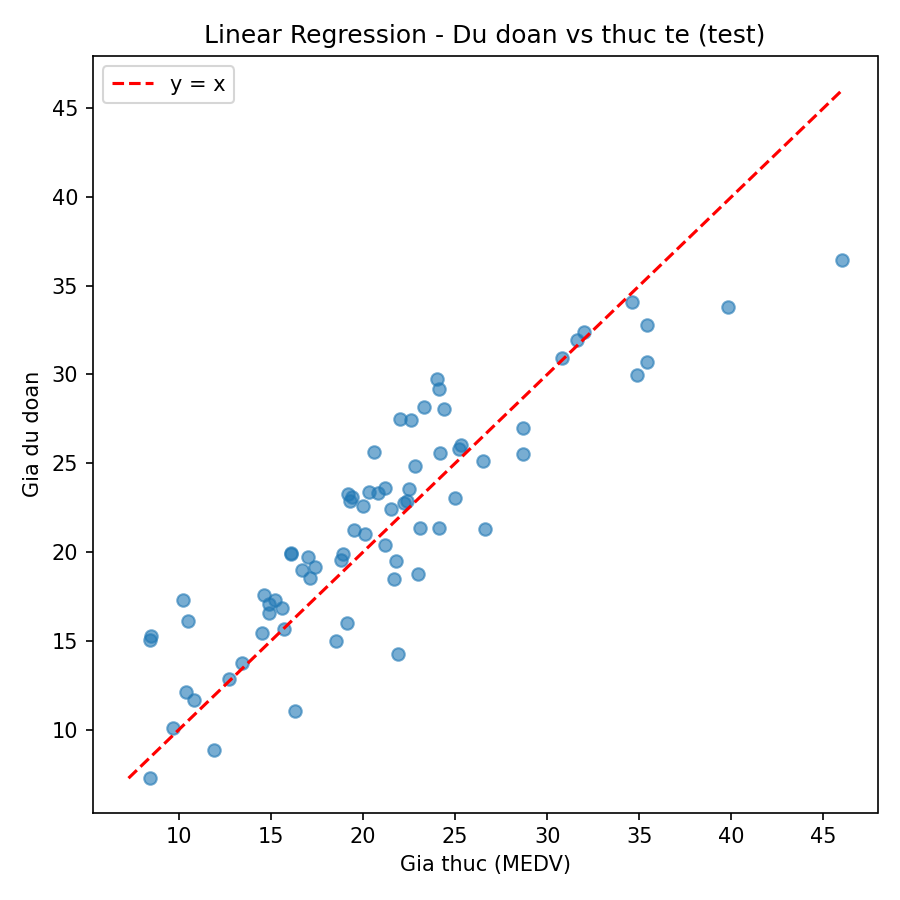
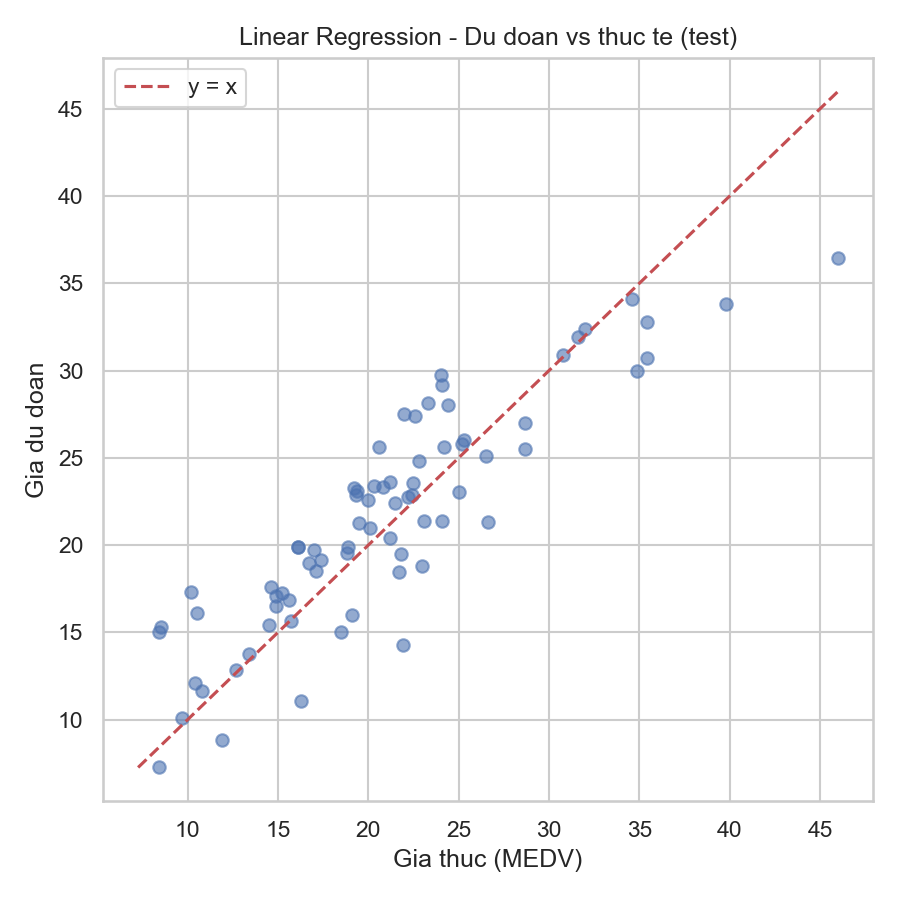
Them module visualization 6 bieu do

diff --git a/src/visualization/visualize.py b/src/visualization/visualize.py
@@ -1,0 +1,136 @@
+import sys
+from pathlib import Path
+
+import joblib
+import matplotlib
+matplotlib.use("Agg")
+import matplotlib.pyplot as plt
+import numpy as np
+import pandas as pd
+import seaborn as sns
+
+ROOT = Path(__file__).resolve().parents[2]
+sys.path.append(str(ROOT / "src"))
+
+from models.train_model import load_data
+
+DATA_PATH = ROOT / "data" / "processed" / "boston_clean.csv"
+COEF_PATH = ROOT / "reports" / "coefficients.csv"
+MODEL_PATH = ROOT / "models" / "linear_regression.joblib"
+FIG_DIR = ROOT / "reports" / "figures"
+TARGET = "MEDV"
+
+sns.set_theme(style="whitegrid")
+
+
+def plot_target_distribution(df):
+    fig, axes = plt.subplots(1, 2, figsize=(12, 4))
+    sns.histplot(df[TARGET], kde=True, ax=axes[0], color="steelblue")
+    axes[0].set_title(f"Phan phoi {TARGET}")
+    axes[0].set_xlabel("Gia nha (x1000 USD)")
+    sns.boxplot(x=df[TARGET], ax=axes[1], color="steelblue")
+    axes[1].set_title(f"Boxplot {TARGET}")
+    fig.tight_layout()
+    fig.savefig(FIG_DIR / "target_distribution.png", dpi=150)
+    plt.close(fig)
+    print(f"Da luu -> {FIG_DIR / 'target_distribution.png'}")
+
+
+def plot_correlation_heatmap(df):
+    corr = df.corr()
+    fig, ax = plt.subplots(figsize=(11, 9))
+    sns.heatmap(corr, annot=True, fmt=".2f", cmap="coolwarm", center=0, ax=ax, square=True)
+    ax.set_title("Ma tran tuong quan cac dac trung")
+    fig.tight_layout()
+    fig.savefig(FIG_DIR / "correlation_heatmap.png", dpi=150)
+    plt.close(fig)
+    print(f"Da luu -> {FIG_DIR / 'correlation_heatmap.png'}")
+
+
+def plot_feature_vs_target(df):
+    corr = df.corr()[TARGET].abs().drop(TARGET).sort_values(ascending=False)
+    top_features = corr.head(4).index.tolist()
+    fig, axes = plt.subplots(2, 2, figsize=(12, 9))
+    for ax, feature in zip(axes.flat, top_features):
+        sns.regplot(data=df, x=feature, y=TARGET, ax=ax, scatter_kws={"alpha": 0.5}, line_kws={"color": "red"})
+        ax.set_title(f"{feature} vs {TARGET} (corr={corr[feature]:.2f})")
+    fig.suptitle("4 dac trung tuong quan manh nhat voi gia nha")
+    fig.tight_layout()
+    fig.savefig(FIG_DIR / "feature_vs_target.png", dpi=150)
+    plt.close(fig)
+    print(f"Da luu -> {FIG_DIR / 'feature_vs_target.png'}")
+
+
+def plot_predictions(y_test, pred):
+    fig, ax = plt.subplots(figsize=(6, 6))
+    ax.scatter(y_test, pred, alpha=0.6)
+    lims = [min(y_test.min(), pred.min()), max(y_test.max(), pred.max())]
+    ax.plot(lims, lims, "r--", label="y = x")
+    ax.set_xlabel("Gia thuc (MEDV)")
+    ax.set_ylabel("Gia du doan")
+    ax.set_title("Linear Regression - Du doan vs thuc te (test)")
+    ax.legend()
+    fig.tight_layout()
+    fig.savefig(FIG_DIR / "predictions_vs_true.png", dpi=150)
+    plt.close(fig)
+    print(f"Da luu -> {FIG_DIR / 'predictions_vs_true.png'}")
+
+
+def plot_residuals(y_test, pred):
+    residual = y_test - pred
+    fig, axes = plt.subplots(1, 2, figsize=(12, 5))
+
+    ax = axes[0]
+    ax.scatter(pred, residual, alpha=0.6)
+    ax.axhline(0, color="red", linestyle="--")
+    ax.set_xlabel("Gia du doan")
+    ax.set_ylabel("Residual (y_true - y_pred)")
+    ax.set_title("Residual plot (test)")
+
+    ax = axes[1]
+    sns.histplot(residual, kde=True, ax=ax, color="steelblue")
+    ax.axvline(0, color="red", linestyle="--")
+    ax.set_xlabel("Residual")
+    ax.set_title("Phan phoi residual")
+
+    fig.tight_layout()
+    fig.savefig(FIG_DIR / "residuals.png", dpi=150)
+    plt.close(fig)
+    print(f"Da luu -> {FIG_DIR / 'residuals.png'}")
+
+
+def plot_coefficients():
+    coef_df = pd.read_csv(COEF_PATH)
+    coef_df = coef_df[coef_df["feature"] != "INTERCEPT"].copy()
+    coef_df = coef_df.sort_values("coefficient_scaled", key=abs)
+    fig, ax = plt.subplots(figsize=(8, 6))
+    colors = np.where(coef_df["coefficient_scaled"] >= 0, "tab:blue", "tab:red")
+    ax.barh(coef_df["feature"], coef_df["coefficient_scaled"], color=colors)
+    ax.axvline(0, color="black", linewidth=0.8)
+    ax.set_xlabel("He so hoi quy (du lieu chuan hoa)")
+    ax.set_title("Tac dong cua tung dac trung")
+    fig.tight_layout()
+    fig.savefig(FIG_DIR / "coefficients.png", dpi=150)
+    plt.close(fig)
+    print(f"Da luu -> {FIG_DIR / 'coefficients.png'}")
+
+
+def main():
+    FIG_DIR.mkdir(parents=True, exist_ok=True)
+
+    df = pd.read_csv(DATA_PATH)
+    plot_target_distribution(df)
+    plot_correlation_heatmap(df)
+    plot_feature_vs_target(df)
+
+    X_train, X_val, X_test, y_train, y_val, y_test = load_data()
+    model = joblib.load(MODEL_PATH)
+    pred = model.predict(X_test)
+    plot_predictions(y_test, pred)
+    plot_residuals(y_test, pred)
+
+    plot_coefficients()
+
+
+if __name__ == "__main__":
+    main()

diff --git a/README.md b/README.md
@@ -17,7 +17,9 @@ Du an hoc may du doan gia nha (MEDV) tu bo du lieu Boston Housing.
 │   │   └── build_features.py   # Imputer (median) + StandardScaler
 │   └── models/
 │       ├── train_model.py      # Chia 3 tap, huan luyen LinearRegression, tinh metric
-│       └── plot_results.py     # Residual plot, du doan vs thuc te
+│       └── __init__.py
+├── visualization/
+│   └── visualize.py            # 6 bieu do: phan phoi, tuong quan, residual, he so...
 ├── models/                 # Mo hinh da luu (.joblib)
 ├── reports/
 │   ├── figures/            # Bieu do, ket qua truc quan
@@ -43,8 +45,19 @@ python src/data/make_dataset.py
 python src/models/train_model.py
 
 # 4. Ve bieu do
-python src/models/plot_results.py
+python src/visualization/visualize.py
 ```
+
+## Bieu do dau ra (reports/figures/)
+
+| File | Noi dung |
+|---|---|
+| `target_distribution.png` | Histogram + boxplot gia nha (MEDV) |
+| `correlation_heatmap.png` | Ma tran tuong quan giua cac dac trung |
+| `feature_vs_target.png` | 4 dac trung tuong quan manh nhat vs gia nha |
+| `predictions_vs_true.png` | Gia du doan vs gia thuc (test) |
+| `residuals.png` | Residual plot + phan phoi residual |
+| `coefficients.png` | He so hoi quy cua tung dac trung |
 
 ## Mo ta du lieu
 
